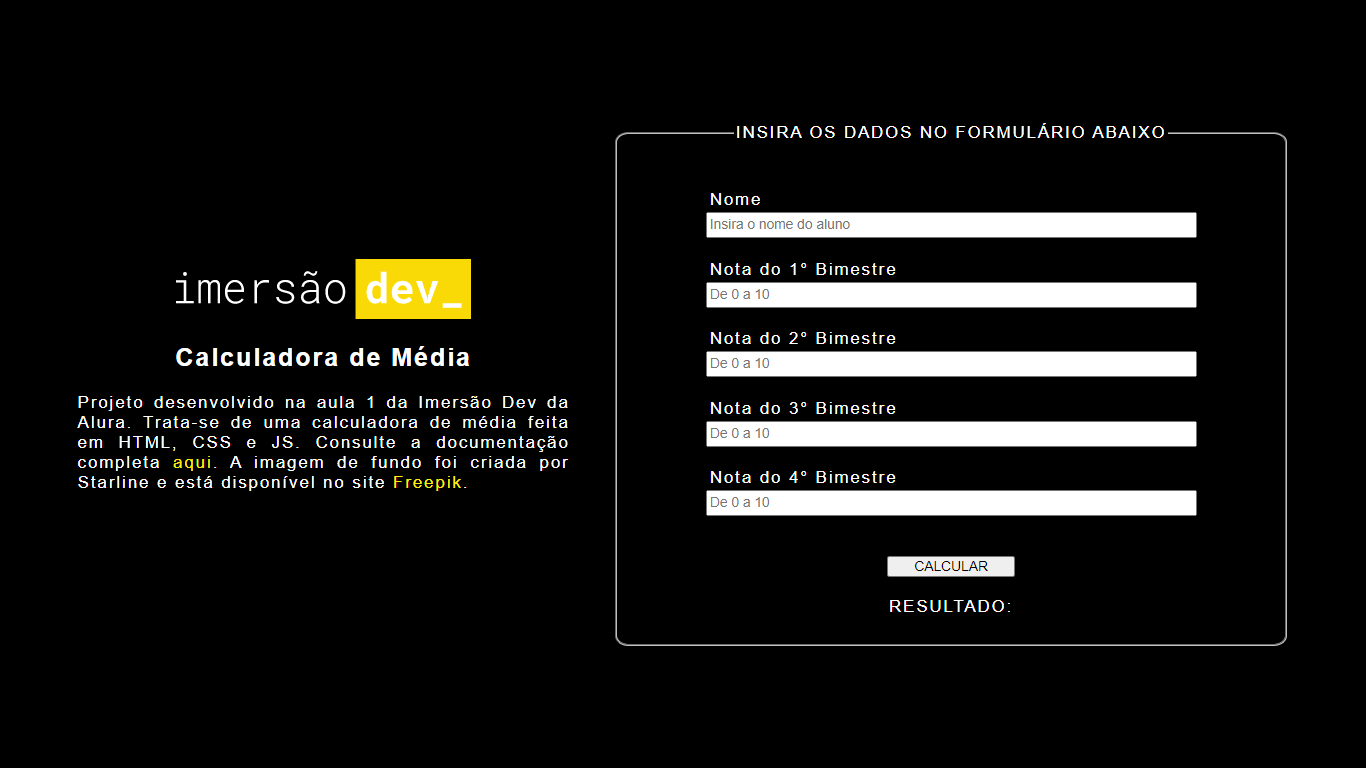
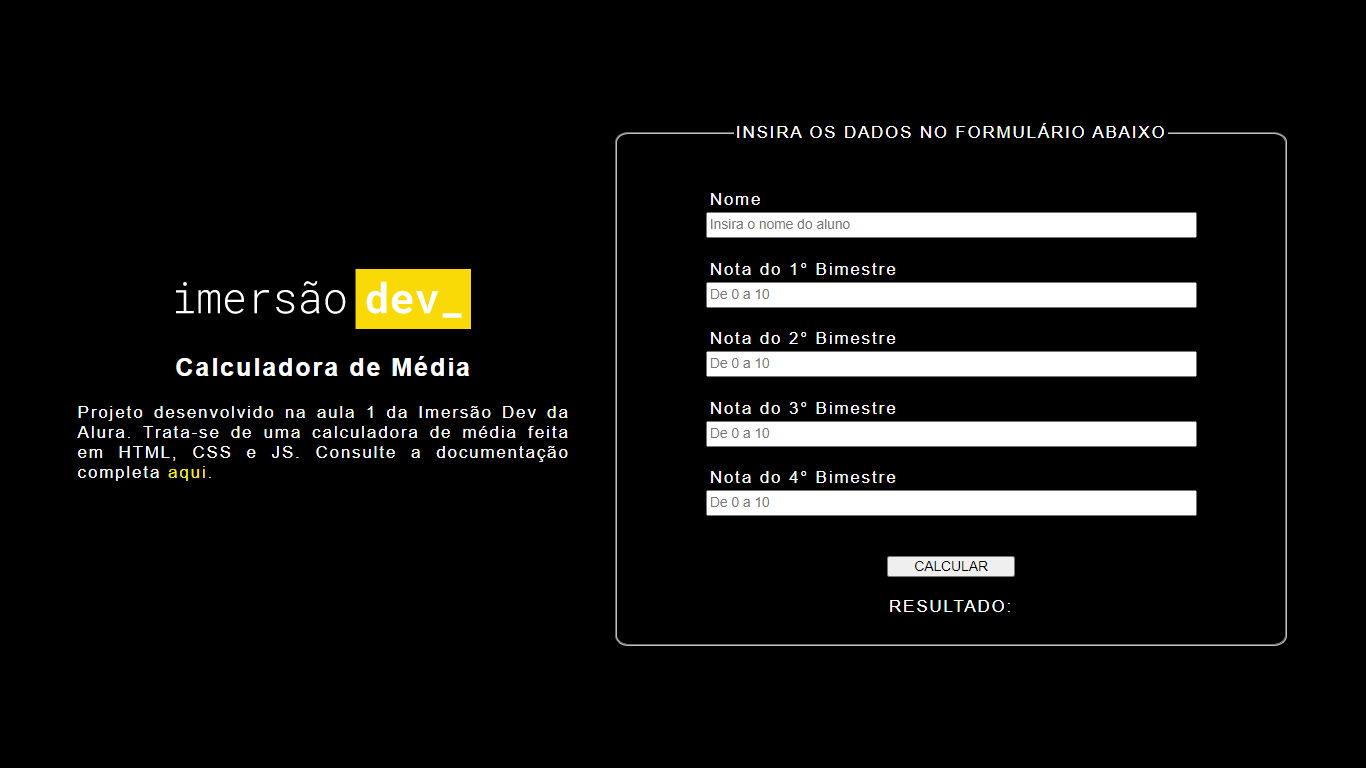
Últimos acertos

Changed region(s): [[0.0615, 0.3125, 0.4305, 0.6562]]

diff --git a/calculadora-de-media/index.html b/calculadora-de-media/index.html
@@ -19,7 +19,7 @@
                 <img src="./img/logo-imersao-conversor-de-moedas.svg" alt="Logo da Imersão Dev">
                 <h1>Calculadora de Média</h1>
             </header>
-            <p>Projeto desenvolvido na aula 1 da Imersão Dev da Alura. Trata-se de uma calculadora de média feita em HTML, CSS e JS. Consulte a documentação completa <a href="">aqui</a>. A imagem de fundo foi criada por Starline e está disponível no site <a href='https://www.freepik.es/vectores/coche'>Freepik</a>.</p>
+            <p>Projeto desenvolvido na aula 1 da Imersão Dev da Alura. Trata-se de uma calculadora de média feita em HTML, CSS e JS. Consulte a documentação completa <a href="">aqui</a>.</p>
         </aside>
 
         <section class="entrada">

diff --git a/calculadora-de-media/css/calculadoraIndex.css b/calculadora-de-media/css/calculadoraIndex.css
@@ -13,7 +13,7 @@ a {
 /* ESTILOS GERAIS */
 
 body{
-    background: #000000;
+    background-color: #000000;
     font-family: 'ARIAL';
     font-size: 100%;
     color: #FFFFFF;
